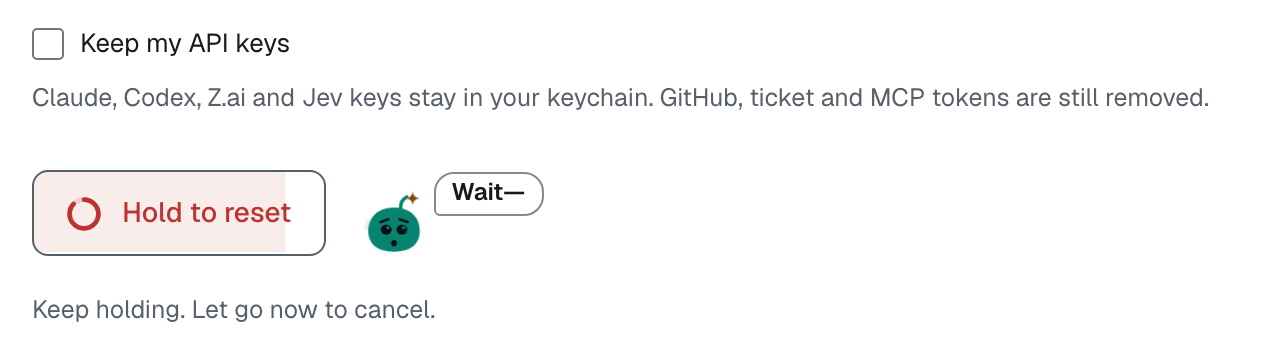
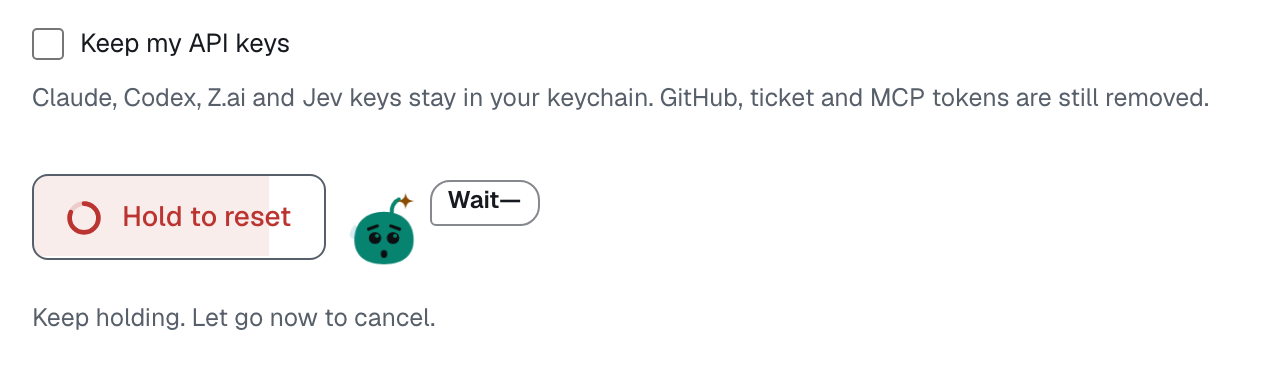
feat(web): seat the reset blob beside the button and let it scream bigger

diff --git a/tests/browser/reset.spec.ts b/tests/browser/reset.spec.ts
@@ -94,14 +94,17 @@ test('with reduced motion the blob only changes its face', async ({ page }) => {
           .map((animation) => animation.animationName),
       ),
     );
-  const box = await sectionBlob(page).locator('.rb-svg').boundingBox();
+  const blobBox = () => sectionBlob(page).locator('.rb-svg').boundingBox();
+  const calm = (await blobBox())!;
 
   await hold.hover();
   await page.mouse.down();
   await expect(sectionBlob(page)).toHaveAttribute('data-mood', 'scream');
   await expect(sectionBlob(page).locator('.rb-bubble')).toHaveText('AAAH!');
   expect(await animations()).toEqual([]);
-  expect(await sectionBlob(page).locator('.rb-svg').boundingBox()).toEqual(box);
+  const screaming = (await blobBox())!;
+  expect(screaming.x).toBeLessThan(calm.x);
+  expect(screaming.y + screaming.height).toBeCloseTo(calm.y + calm.height, 0);
   await expect(graceBar(page)).toBeVisible({ timeout: 3000 });
   await page.mouse.up();
   await expect(graceBar(page).locator('.rb')).toHaveAttribute('data-mood', 'plead');

diff --git a/apps/web/src/reset/reset-blob.css b/apps/web/src/reset/reset-blob.css
@@ -276,27 +276,36 @@
 
 .reset-blob-stage {
   flex: none;
-  width: 210px;
-  height: 60px;
+  width: 220px;
+  height: 64px;
 }
 
 .reset-blob-stage .rb-roam {
-  left: 2px;
-  bottom: 6px;
+  left: 0;
+  bottom: 2px;
 }
 
 .grace-peek {
   position: absolute;
   right: 12px;
   bottom: 100%;
-  width: 52px;
-  height: 40px;
+  width: 58px;
+  height: 44px;
   overflow: hidden;
 }
 
 .grace-peek .rb-roam {
   left: 8px;
   bottom: -7px;
+}
+
+.rb[data-mood='scream'] .rb-hop {
+  scale: 1.35;
+  transform-origin: 30% 100%;
+}
+
+.rb[data-mood='scream'] .rb-bubble {
+  left: calc(100% + 12px);
 }
 
 @keyframes rb-pop {
@@ -361,7 +370,7 @@
     transform: translateY(0) scale(1.1, 0.9);
   }
   45% {
-    transform: translateY(-13px) scale(0.94, 1.08);
+    transform: translateY(-6px) scale(0.94, 1.08);
   }
 }
 
@@ -383,7 +392,7 @@
 
 @keyframes rb-roam {
   to {
-    transform: translateX(96px);
+    transform: translateX(90px);
   }
 }
 

diff --git a/apps/web/src/reset/ResetSection.tsx b/apps/web/src/reset/ResetSection.tsx
@@ -76,7 +76,7 @@ export function ResetSection() {
         holdingHint="Keep holding. Let go now to cancel."
         releasedHint="Released early. Nothing happened."
         disabled={busy}
-        adornment={<ResetBlob mood={mood} size={36} className="reset-blob-stage" />}
+        adornment={<ResetBlob mood={mood} size={42} className="reset-blob-stage" />}
         onConfirm={() => setResetState({ phase: 'counting', keepApiKeys })}
         onHoldChange={onHoldChange}
       />

diff --git a/apps/web/src/reset/ResetHost.tsx b/apps/web/src/reset/ResetHost.tsx
@@ -59,7 +59,7 @@ export function ResetHost() {
           onElapse={() => void runReset(state.keepApiKeys)}
           onUndo={idle}
           decoration={(secondsLeft) => (
-            <ResetBlob mood={graceBlobMood(secondsLeft)} size={36} className="grace-peek" />
+            <ResetBlob mood={graceBlobMood(secondsLeft)} size={40} className="grace-peek" />
           )}
         />
       )}

diff --git a/apps/web/src/ui/hold-to-confirm.css b/apps/web/src/ui/hold-to-confirm.css
@@ -101,5 +101,5 @@
   display: flex;
   flex-wrap: wrap;
   align-items: center;
-  gap: 14px;
+  gap: 8px;
 }
